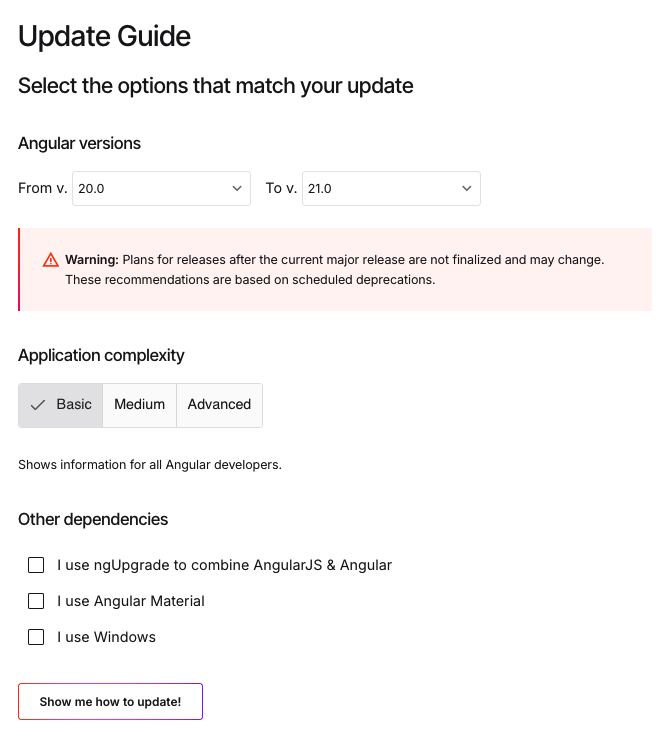
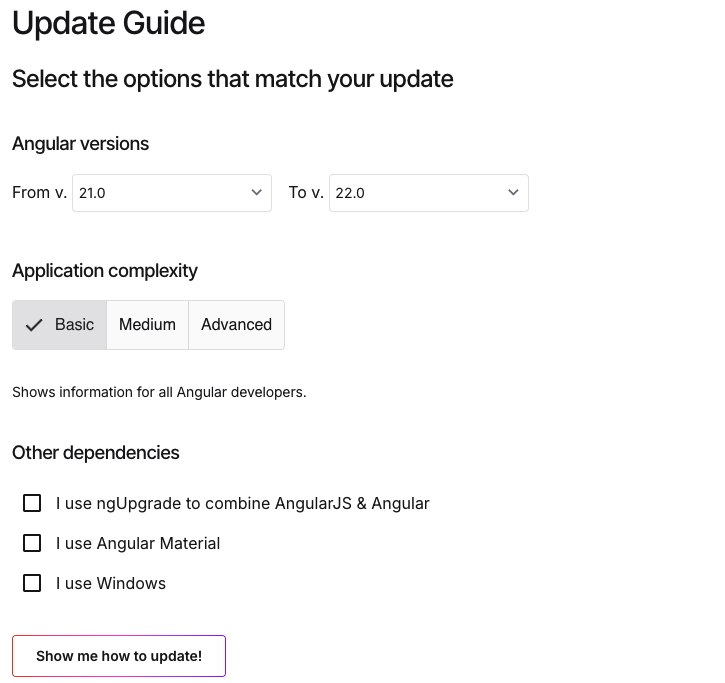
docs: update Angular upgrade guide for v21 to v22

diff --git a/articles/90b2b35d784fec.md b/articles/90b2b35d784fec.md
@@ -14,22 +14,22 @@ published: true
 
 - [`公式ガイド`](https://angular.dev/update-guide) で、手順を確認
 - メジャーバージョンは、**必ず一つずつ** 上げる
-  - ex. Angular v20.x => Angular v21.x
+  - ex. Angular v21.x => Angular v22.x
 
 # アップデート手順
 
-- [公式ガイド](https://angular.dev/update-guide?v=19.0-20.0&l=1) を参照
+- [公式ガイド](https://angular.dev/update-guide?v=21.0-22.0&l=1) を参照
 - バージョンを指定
   - 現在のプロダクトのバージョンとアップデートする **必ず一つ上** のバージョンを指定します。
     - https://angular.dev/update-guide
-    - **ex. Angular v20.x => Angular v21.x**
+    - **ex. Angular v21.x => Angular v22.x**
 - App Complexity（複雑度）の指定
   - Basic を選んでおけば、基本的に大丈夫です。
 - Other Dependencies の指定
   - 該当する項目をチェックします
 
-![ex. Angular v20.x => Angular v21.x](/images/select.version.png)
-_ex. Angular v20.x => Angular v21.x_
+![ex. Angular v21.x => Angular v22.x](/images/select.version.png)
+_ex. Angular v21.x => Angular v22.x_
 
 Show me how to update! をクリックすると下図手順が表示されます。
 
@@ -43,7 +43,7 @@ Before Updating
 _There aren't currently any changes needed before moving between these versions._
 :::
 
-Angular v20.x => Angular v21.x の場合、**_基本的には_** アップデート前に実施する作業はありません。
+Angular v21.x => Angular v22.x の場合、**_基本的には_** アップデート前に実施する作業はありません。
 
 ### During the Update / アップデートの実施
 
@@ -106,21 +106,21 @@ $ yarn start
 $ ng update @angular/core@latest @angular/cli@latest
 ```
 
-### v21 のマイナーバージョンまで指定して、アップデートする場合
+### v22 のマイナーバージョンまで指定して、アップデートする場合
 
 ```sh
-$ ng update @angular/core@v21.0.0 @angular/cli@v21.0.0
+$ ng update @angular/core@v22.0.0 @angular/cli@v22.0.0
 ```
 
 ### Angular CDK, Angular Materail をアップデートする場合
 
 ```sh
-$ ng update @angular/cdk@v21.x @angular/material@v21.x
+$ ng update @angular/cdk@v22.x @angular/material@v22.x
 ```
 
 ### 先行バージョンで、アップデートする場合
 
-- 先行バージョン（ex v21.1.0-next.0 or  v21.1.0-rc.0）ですので、参考まで
+- 先行バージョン（ex v22.1.0-next.0 or  v22.1.0-rc.0）ですので、参考まで
 - --force オプションをつけないと上手く行かないことがあります
 
 ```sh
@@ -148,6 +148,7 @@ $ ng update @angular/cli --next --force
 あくまでも参考程度で、御覧ください。
 :::
 
+- [v21.x => v22.x ファイル差分](https://github.com/gurezo/ng-migrate-sample/pull/102/files)
 - [v20.x => v21.x ファイル差分](https://github.com/gurezo/ng-migrate-sample/pull/101/files)
 - [v19.x => v20.x ファイル差分](https://github.com/gurezo/ng-migrate-sample/pull/100/files)
 - [v18.x => v19.x ファイル差分](https://github.com/gurezo/ng-migrate-sample/pull/99/files)
@@ -210,14 +211,15 @@ $ ncu -u
 Upgrading /Users/lifewood/work/some-folder/package.json
 [====================] 22/22 100%
 
- @types/jasmine   ~4.3.0  →  ~5.1.13
- jasmine-core     ~4.6.0  →  ~5.13.0
- karma            ~6.4.0  →   ~6.4.4
- karma-coverage   ~2.2.0  →   ~2.2.1
- rxjs             ~7.8.0  →   ~7.8.2
- tslib            ^2.3.0  →   ^2.8.1
- zone.js         ~0.15.0  →  ~0.16.0
-
+ @types/jasmine                ~4.3.0  →   ~6.0.0
+ jasmine-core                  ~4.6.0  →   ~6.3.0
+ karma                         ~6.4.0  →   ~6.4.4
+ karma-coverage                ~2.2.0  →   ~2.2.1
+ karma-jasmine-html-reporter   ~2.1.0  →   ~2.2.0
+ rxjs                          ~7.8.0  →   ~7.8.2
+ tslib                         ^2.3.0  →   ^2.8.1
+ vitest                        ^4.0.8  →   ^4.1.9
+ zone.js                      ~0.15.0  →  ~0.16.2
 Run npm install to install new versions.
 ```
 
@@ -245,7 +247,7 @@ Run npm install to install new versions.
   ```sh
   $ mkdir test-project
   $ cd test-project
-  $ npm i @angular/cli@v21.x --no-save
+  $ npm i @angular/cli@v22.x --no-save
   ```
 
 #### 作成したディレクトリに Angular 新規プロジェクトを作成
